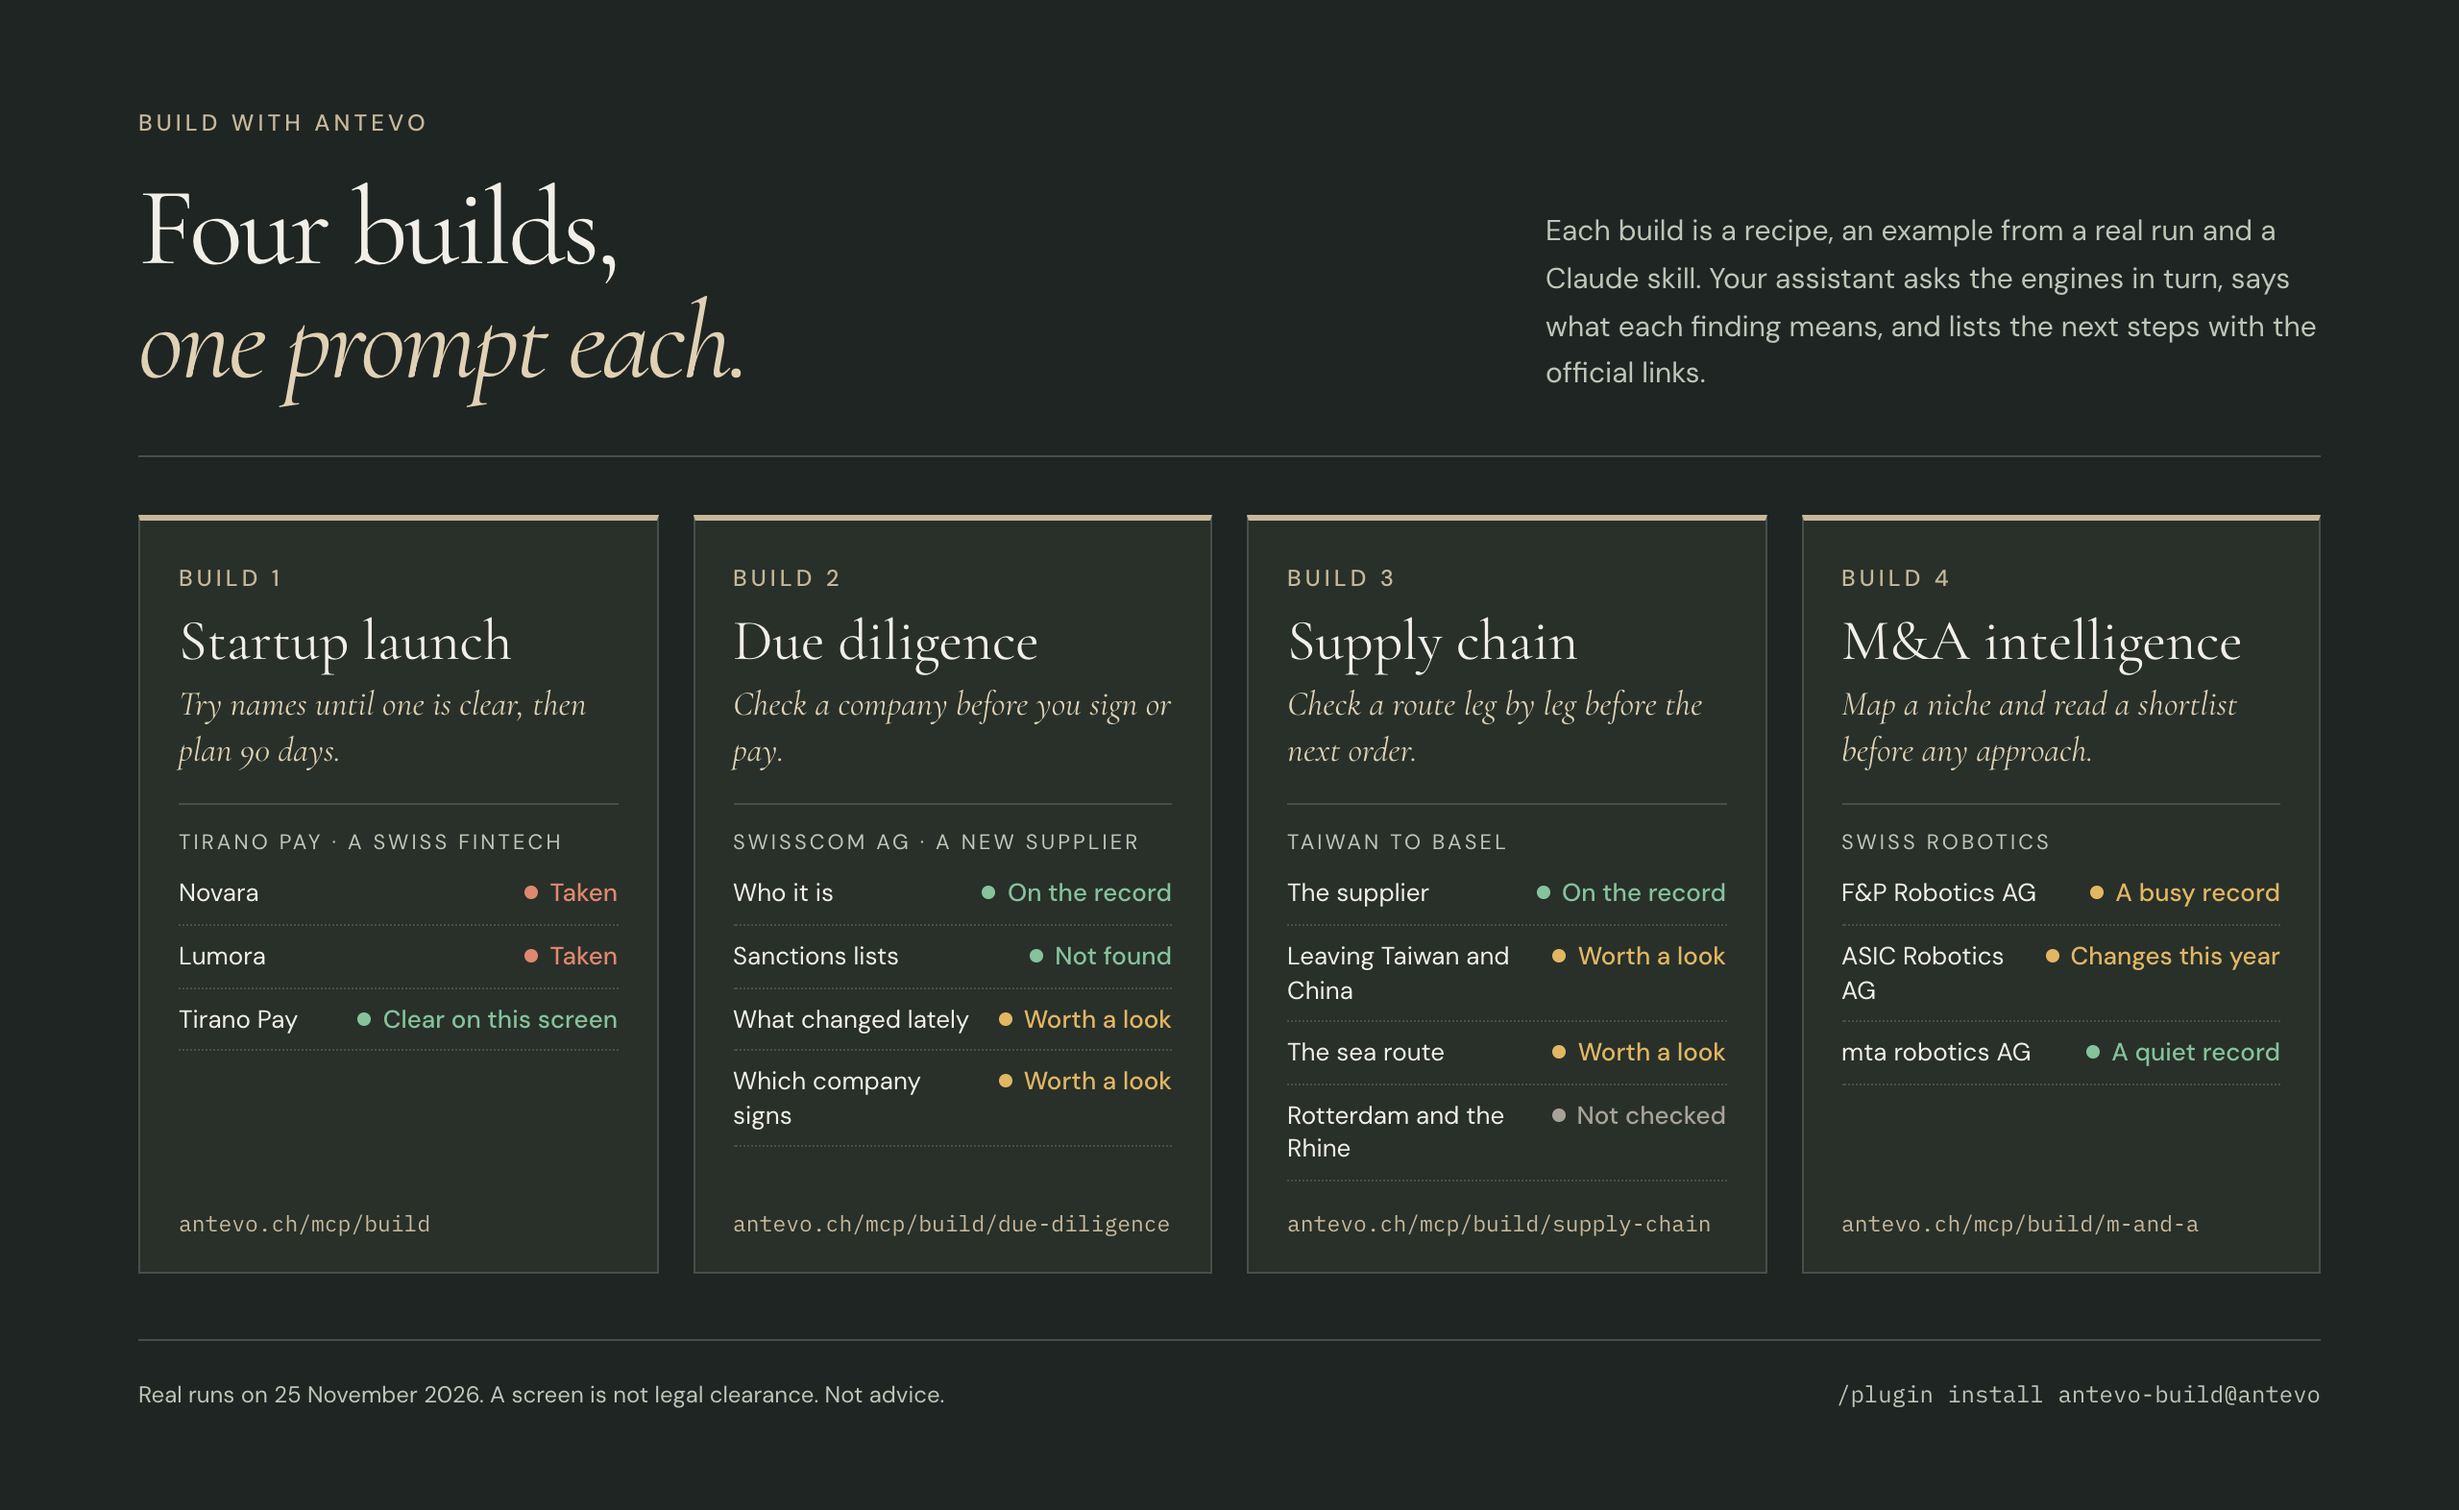
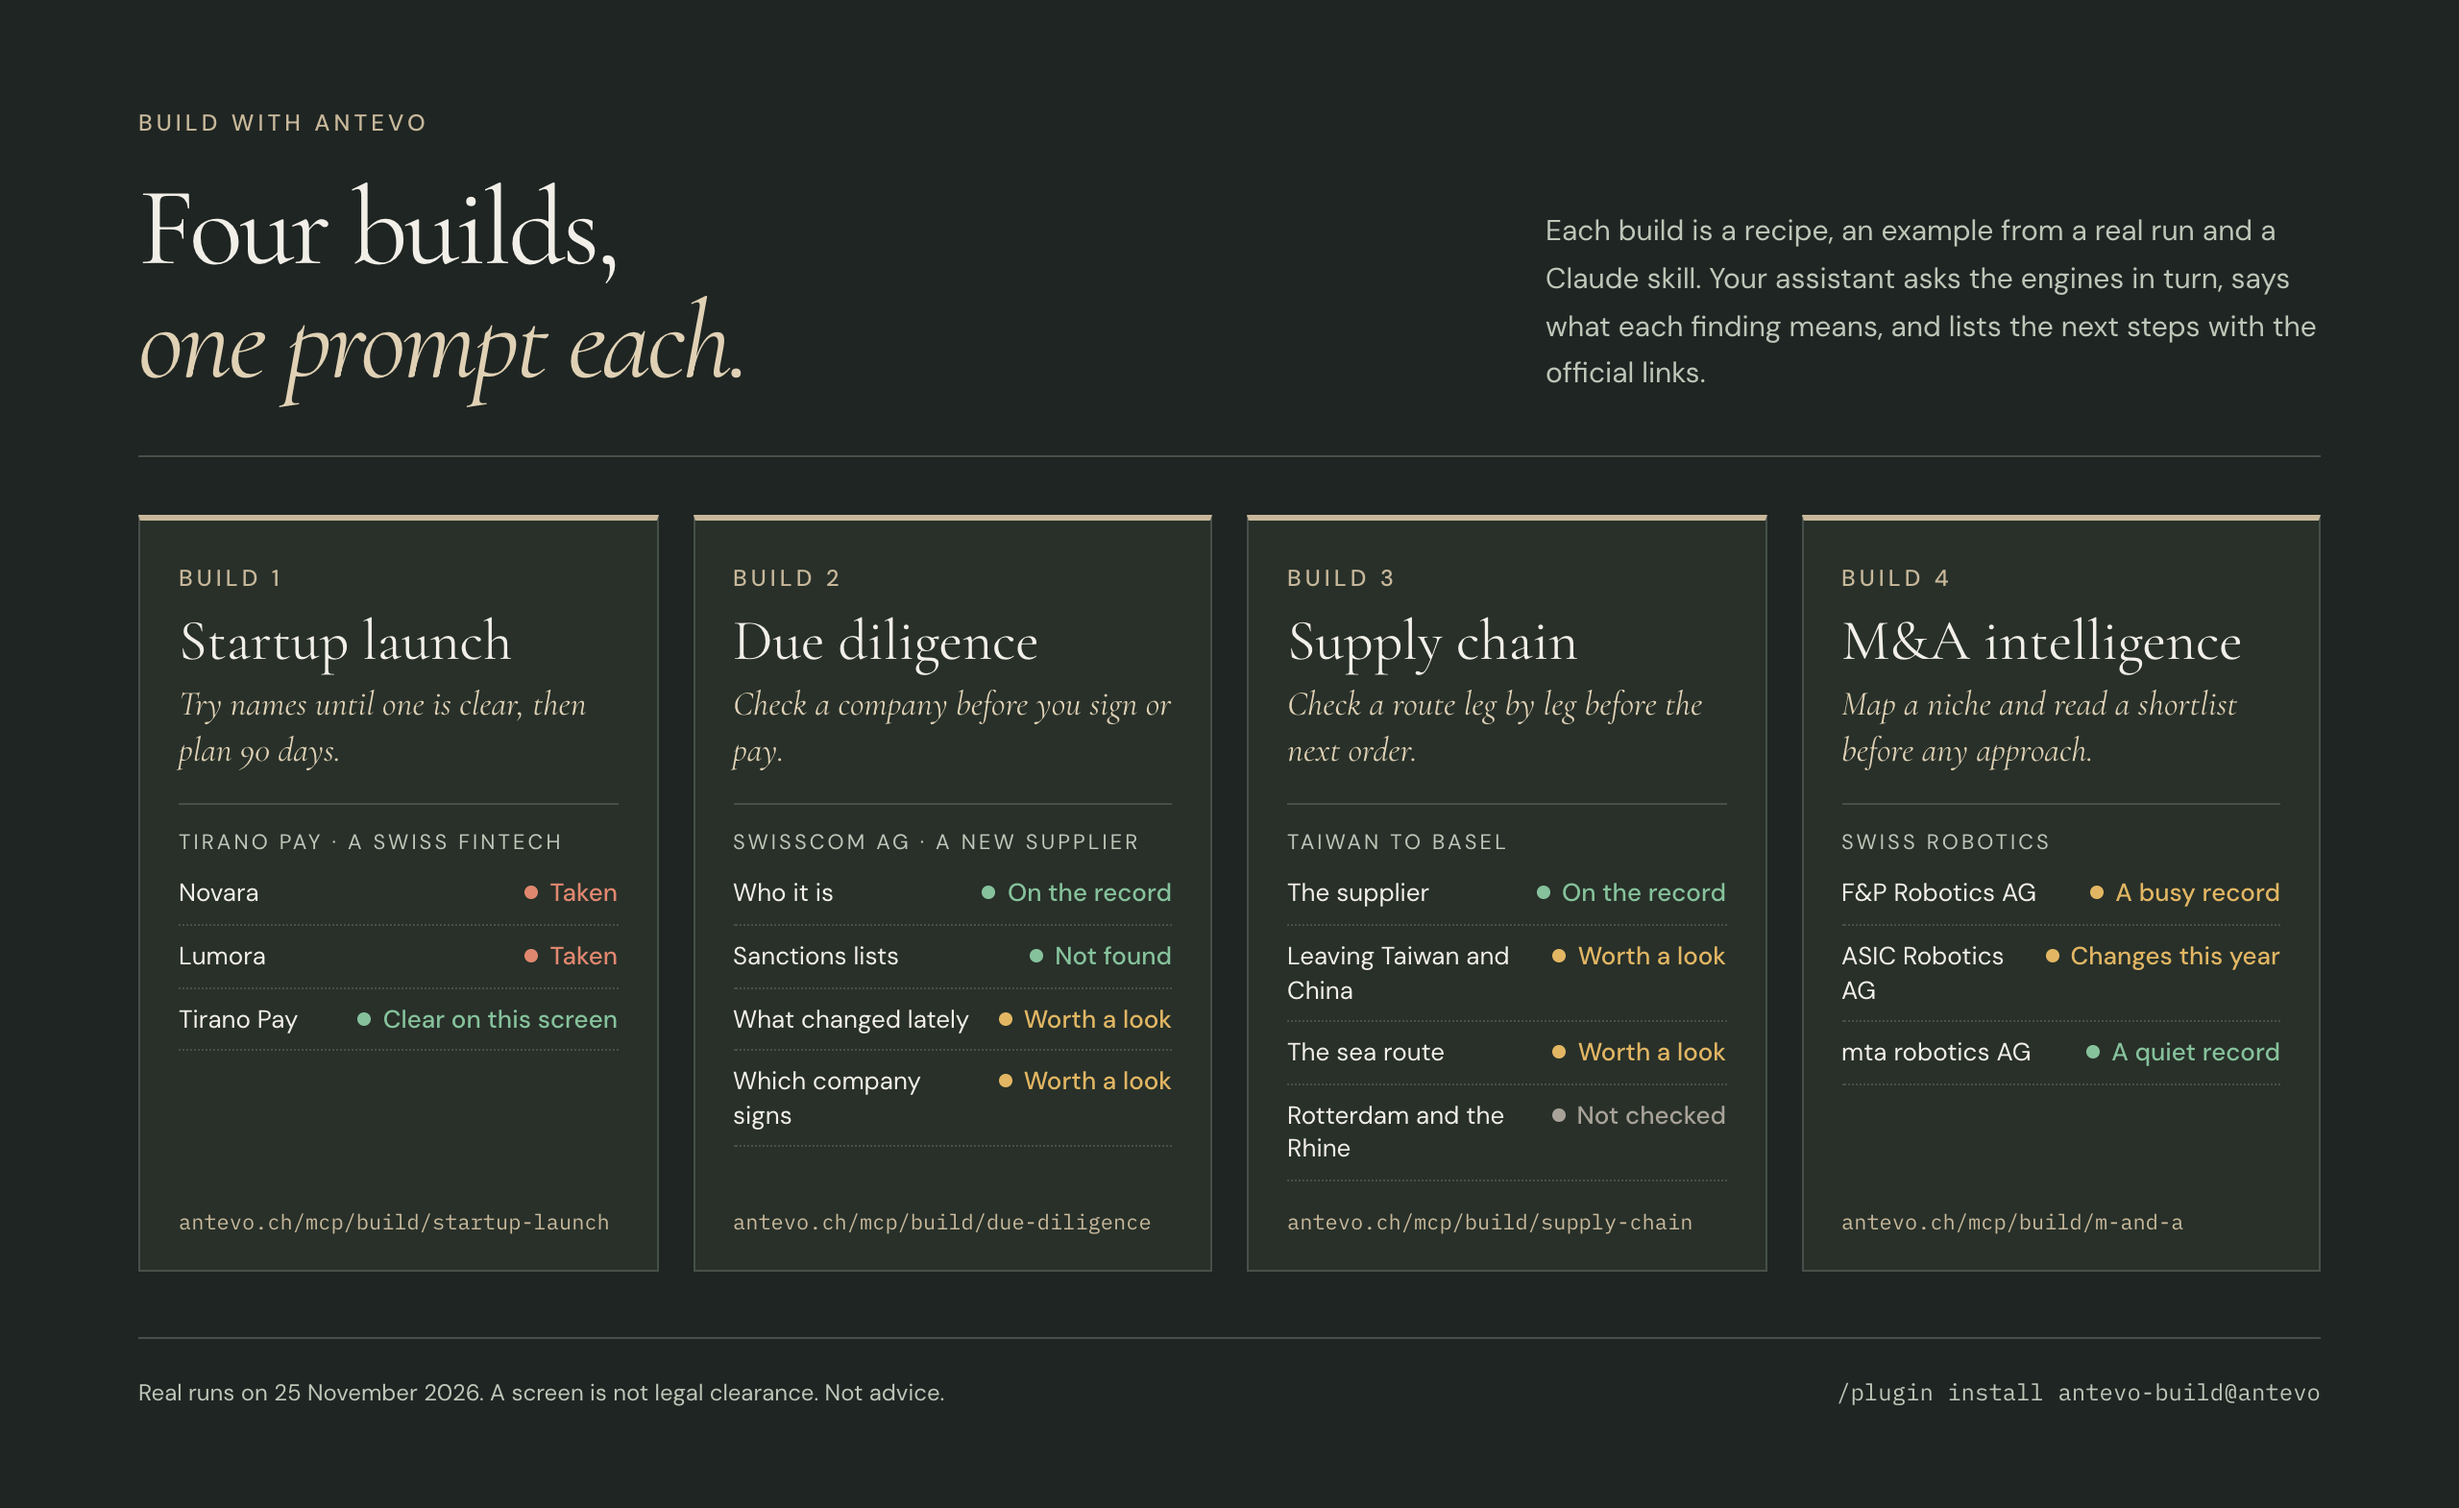
Point Startup launch at its own page
The build hub now lives at antevo.ch/mcp/build/ and the first build moved to
antevo.ch/mcp/build/startup-launch/. Link and builds picture follow.

diff --git a/README.md b/README.md
@@ -42,7 +42,7 @@ The plugins connect seven of them directly; `antevo-build` connects six at once,
 
 **We build the intelligence. You build what's next.** `antevo-build` connects seven engines in one install and adds builds on top of them. Each build is a recipe, an example from a real run and a skill:
 
-- **Startup Launch Intelligence** (`startup-launch`): tries your names until one is clear, lists the steps to register it with the official links, and plans the first 90 days. [antevo.ch/mcp/build](https://antevo.ch/mcp/build/)
+- **Startup Launch Intelligence** (`startup-launch`): tries your names until one is clear, lists the steps to register it with the official links, and plans the first 90 days. [antevo.ch/mcp/build/startup-launch](https://antevo.ch/mcp/build/startup-launch/)
 - **Company Due Diligence** (`due-diligence`): checks a company before you sign or pay. [antevo.ch/mcp/build/due-diligence](https://antevo.ch/mcp/build/due-diligence/)
 - **Supply Chain Watch** (`supply-chain`): checks a supply route leg by leg before the next order. [antevo.ch/mcp/build/supply-chain](https://antevo.ch/mcp/build/supply-chain/)
 - **M&A Intelligence** (`m-and-a`): maps a niche and reads a shortlist before any approach. [antevo.ch/mcp/build/m-and-a](https://antevo.ch/mcp/build/m-and-a/)
